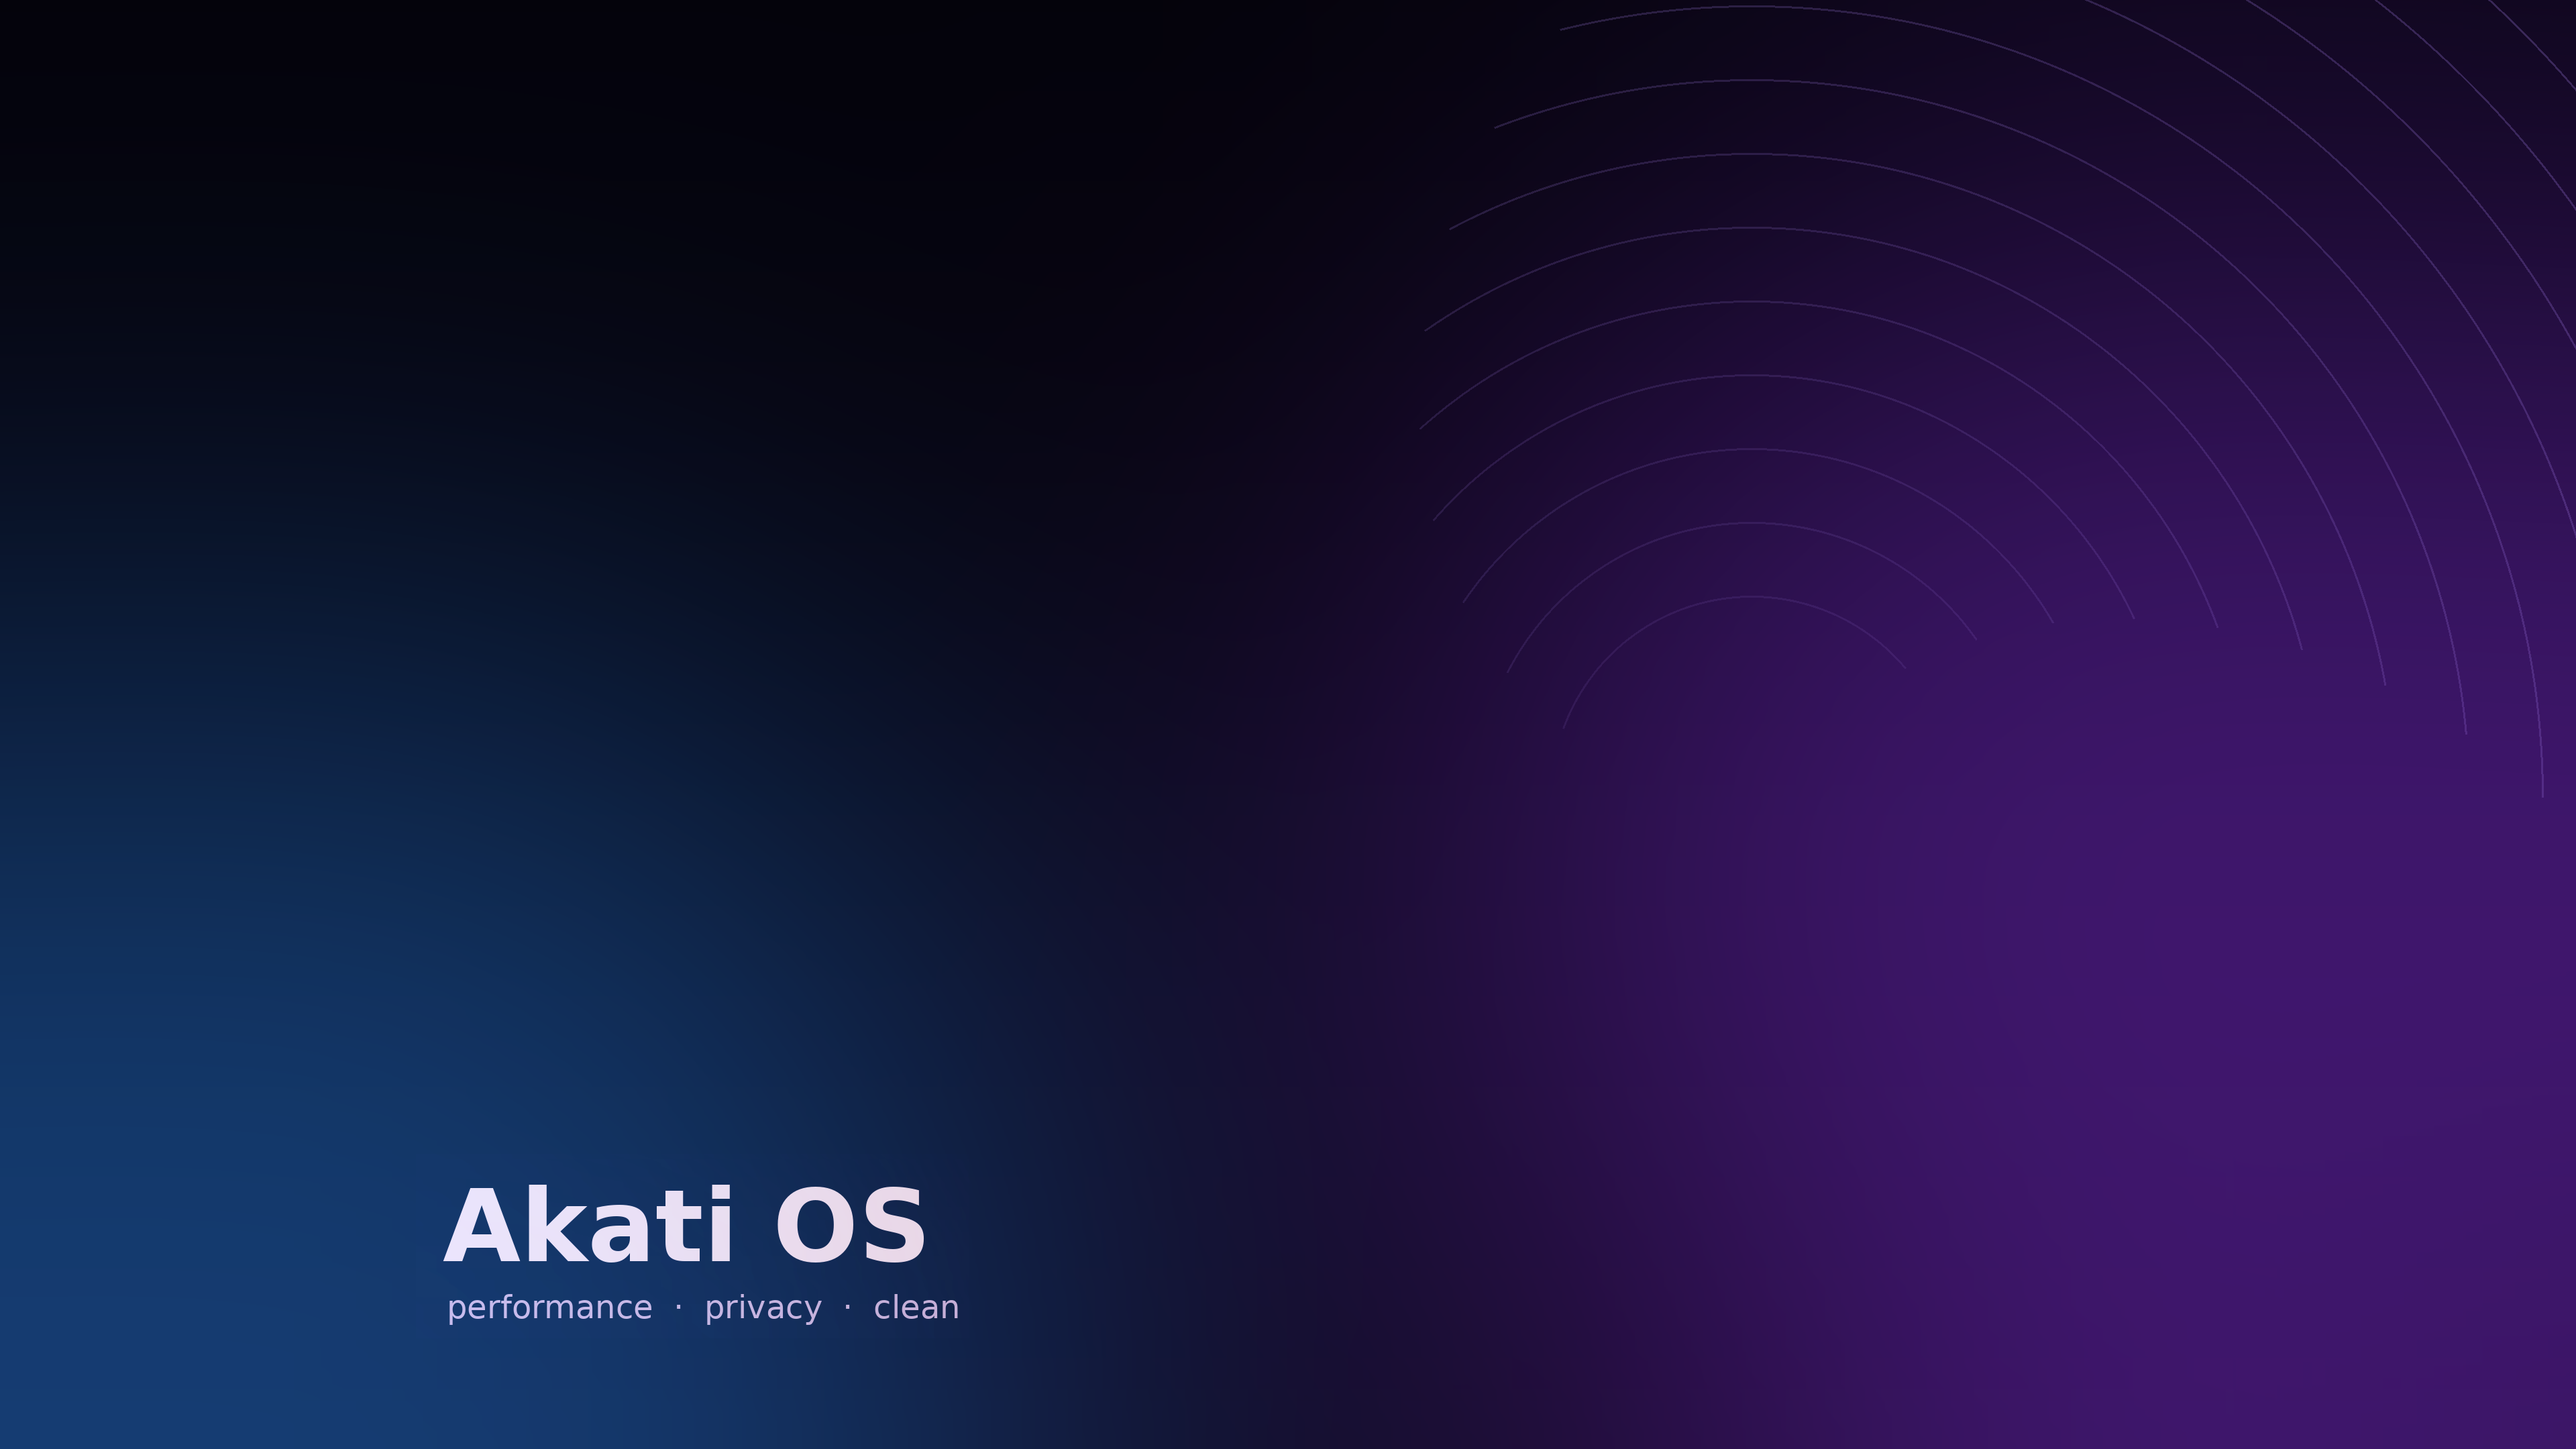
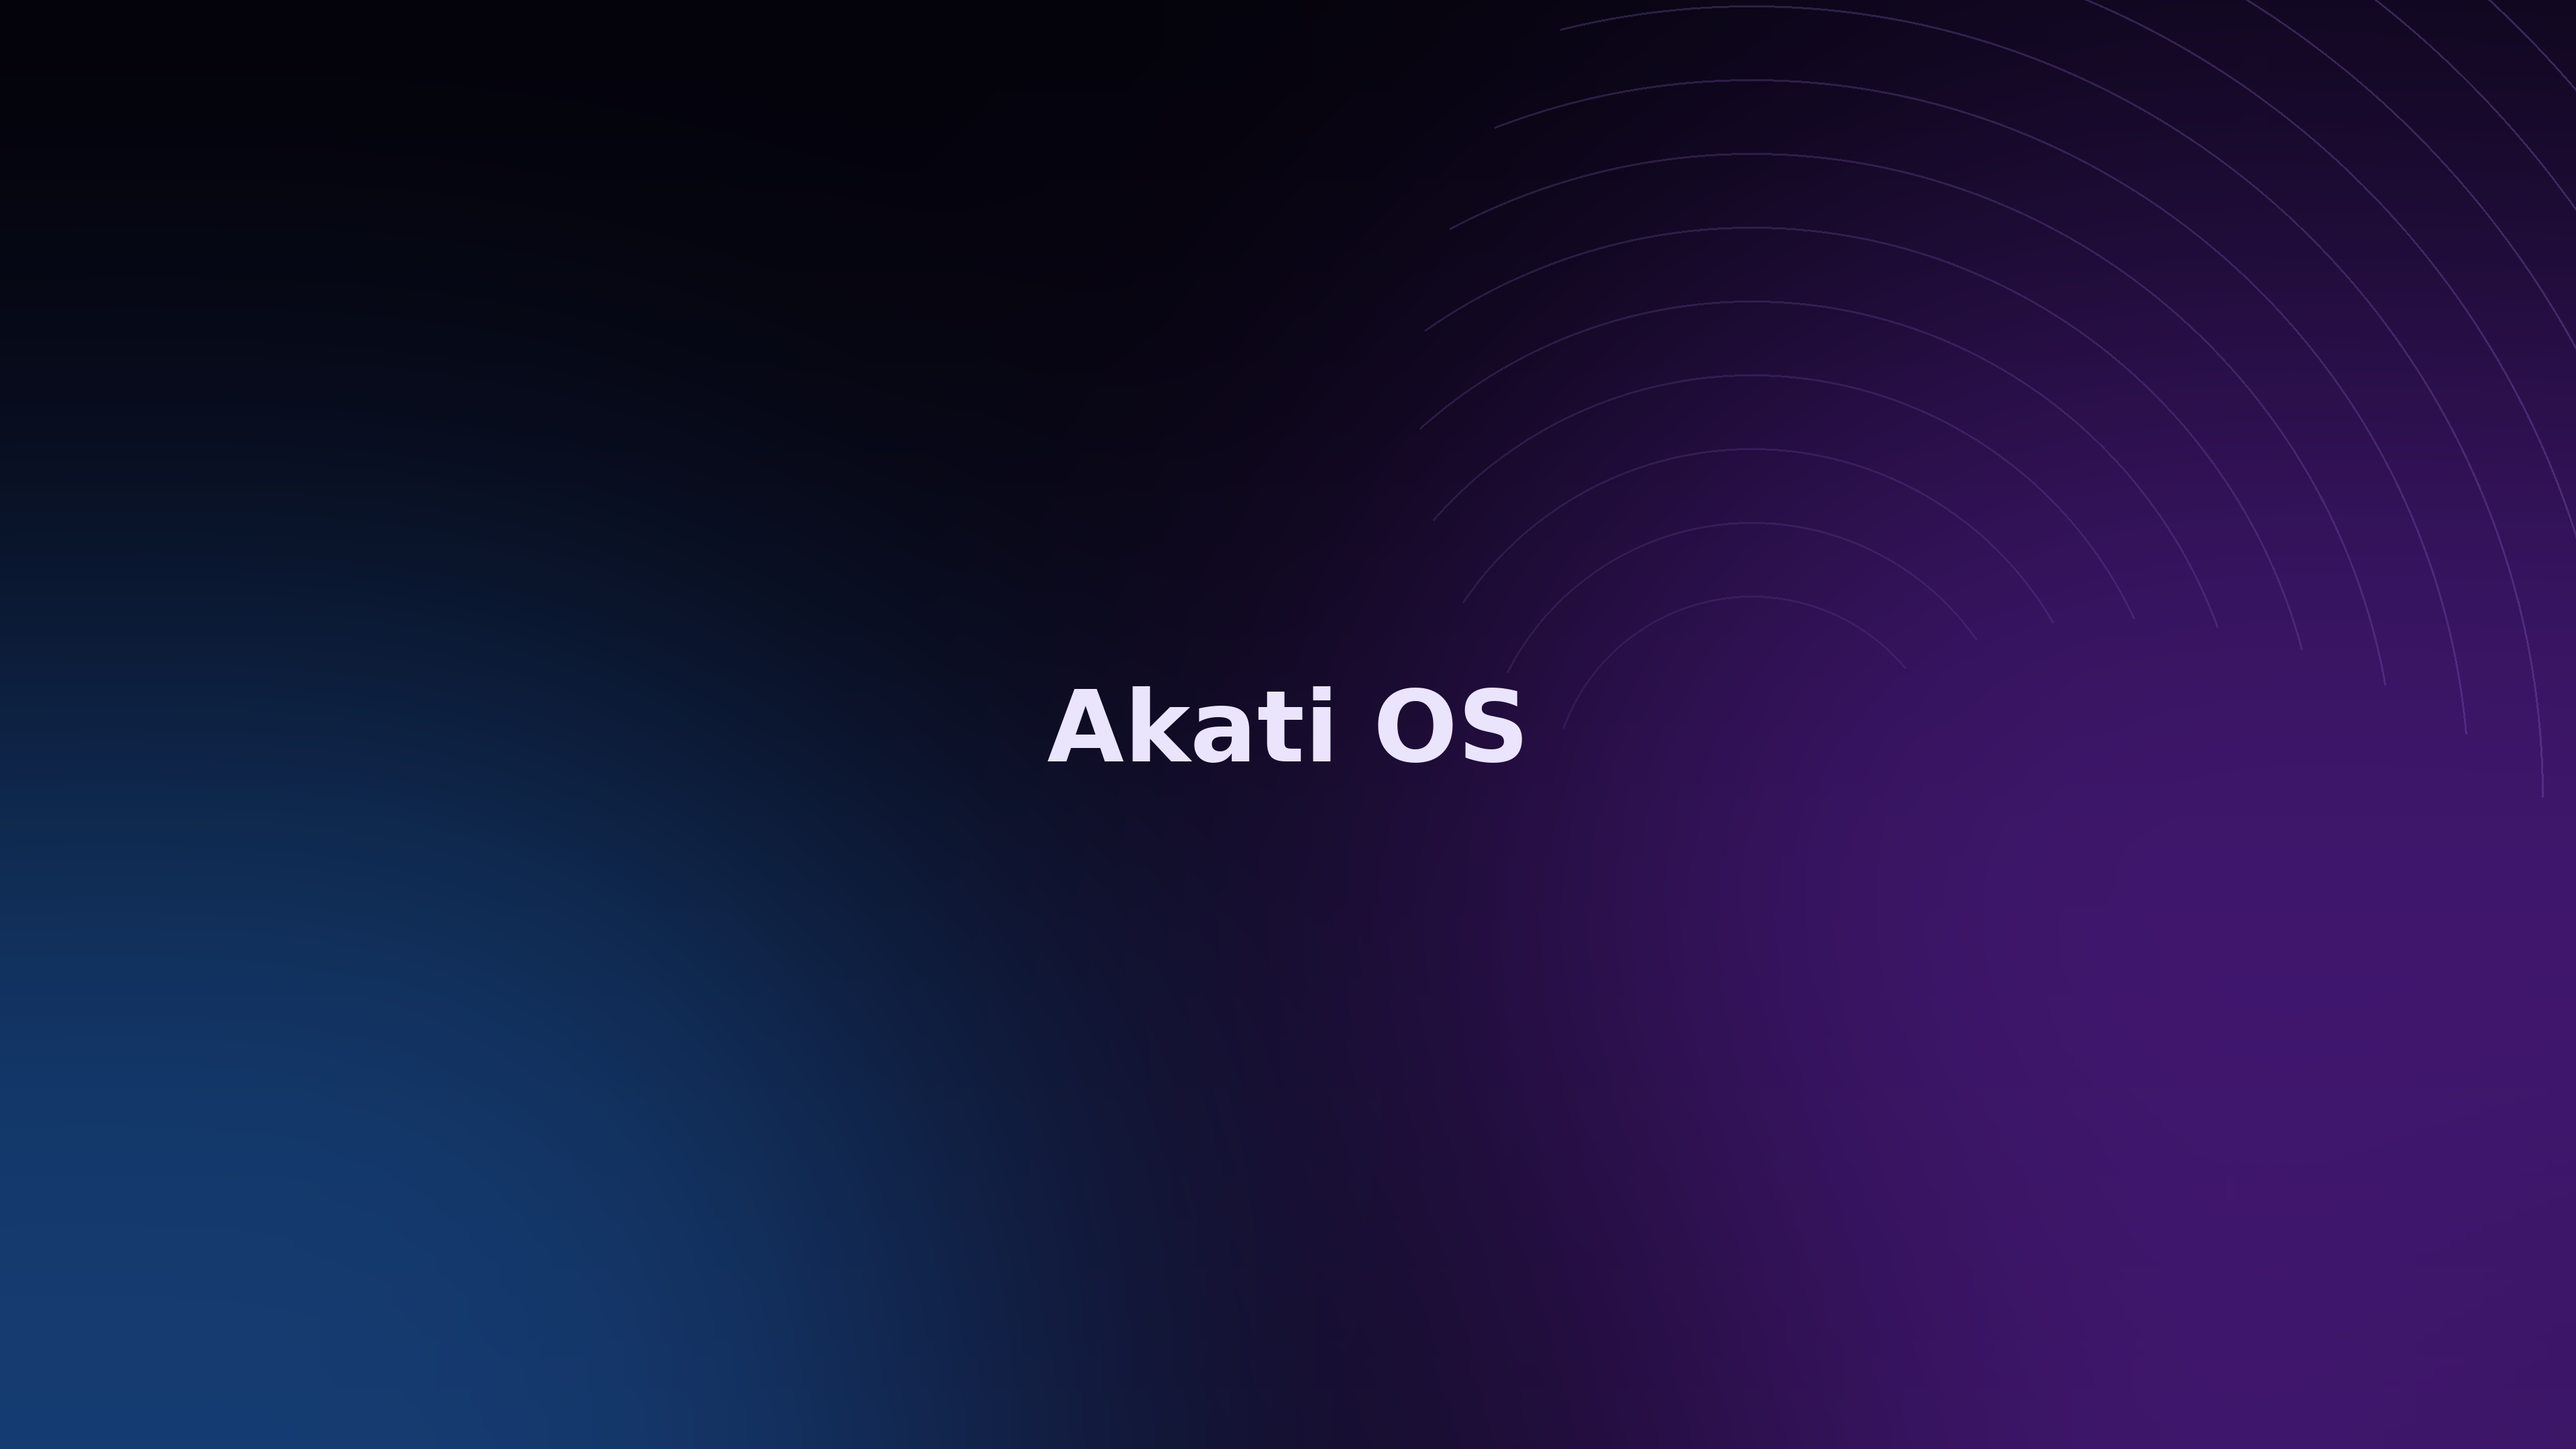
Wallpapers: "Akati OS" in the middle, no tagline
Requested: the Dark and Light wallpapers show only "Akati OS", centered,
instead of the title and "performance · privacy · clean" at the bottom left.
Dark is the text-free lock screen image with the title; for Light the old
text area was filled from the surrounding gradient. Same font and size as
before (DejaVu Sans Bold).

Claude-Session: https://claude.ai/code/session_01CM64cqv3NrSP59pybrW6Xm

diff --git a/src/CHANGELOG.md b/src/CHANGELOG.md
@@ -27,6 +27,7 @@
 - Pages fade in
 - Window buttons like macOS at the top left: close, minimize and full screen (fills the screen, the taskbar stays visible). Double-click the top bar for full screen too
 - The window fits on small screens (it was cut off on a 1024 x 768 screen)
+- Akati OS Dark and Light wallpapers: "Akati OS" is in the middle, without the "performance · privacy · clean" line
 - Setup opens Task Manager after it restarts Explorer, so you can see what is running while the playbook works
 - `tools/make-assets.py` draws the new wallpapers, cursors and sounds from code (no third-party art)
 - Windows 11: Mica backdrop (the see-through background of Windows 11 apps) in Akati OS Center

diff --git a/src-win10/CHANGELOG.md b/src-win10/CHANGELOG.md
@@ -27,6 +27,7 @@
 - Pages fade in
 - Window buttons like macOS at the top left: close, minimize and full screen (fills the screen, the taskbar stays visible). Double-click the top bar for full screen too
 - The window fits on small screens (it was cut off on a 1024 x 768 screen)
+- Akati OS Dark and Light wallpapers: "Akati OS" is in the middle, without the "performance · privacy · clean" line
 - Setup opens Task Manager after it restarts Explorer, so you can see what is running while the playbook works
 - `tools/make-assets.py` draws the new wallpapers, cursors and sounds from code (no third-party art)
 
